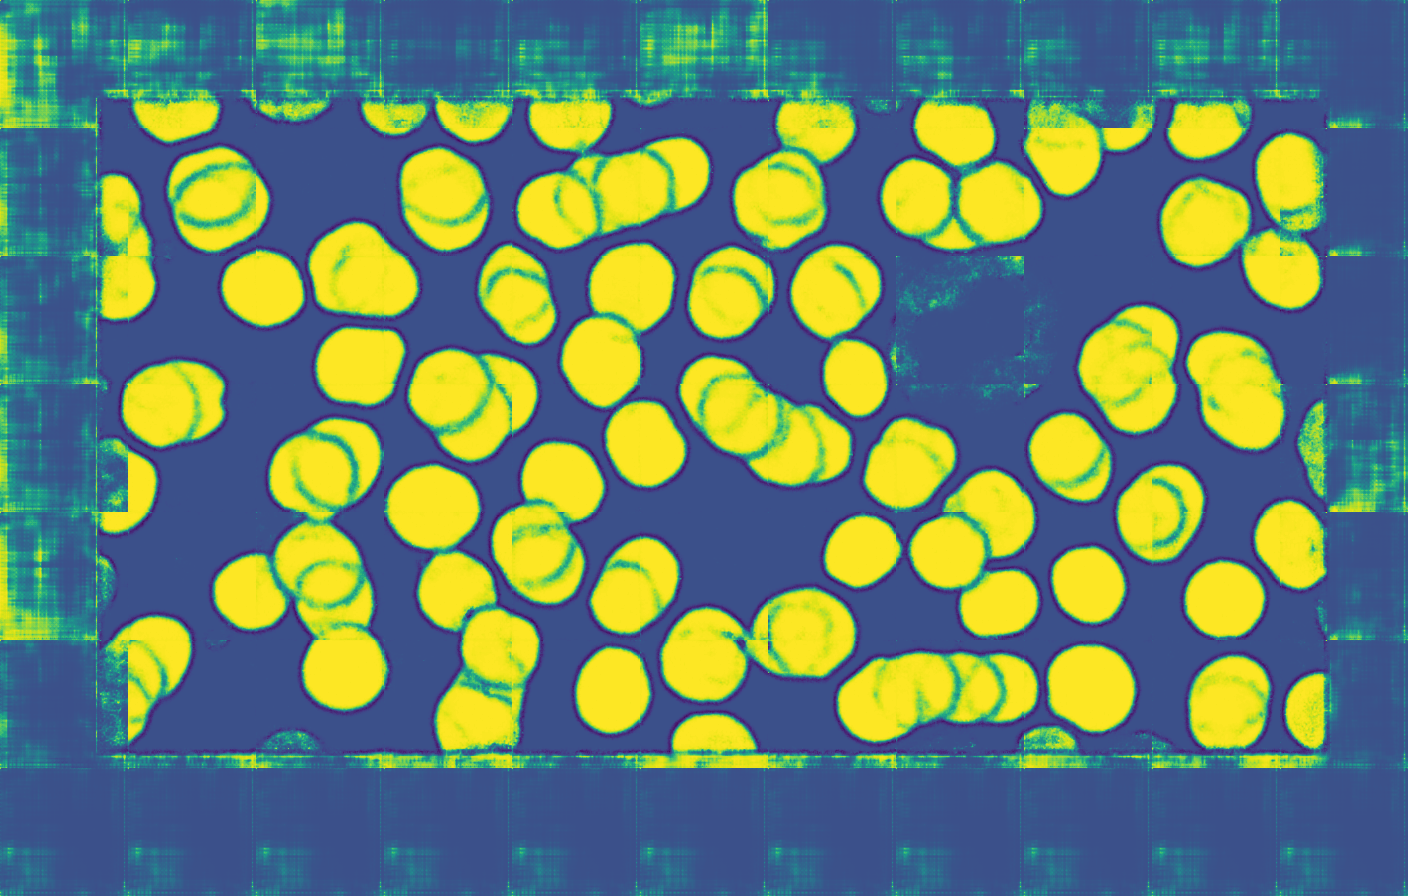
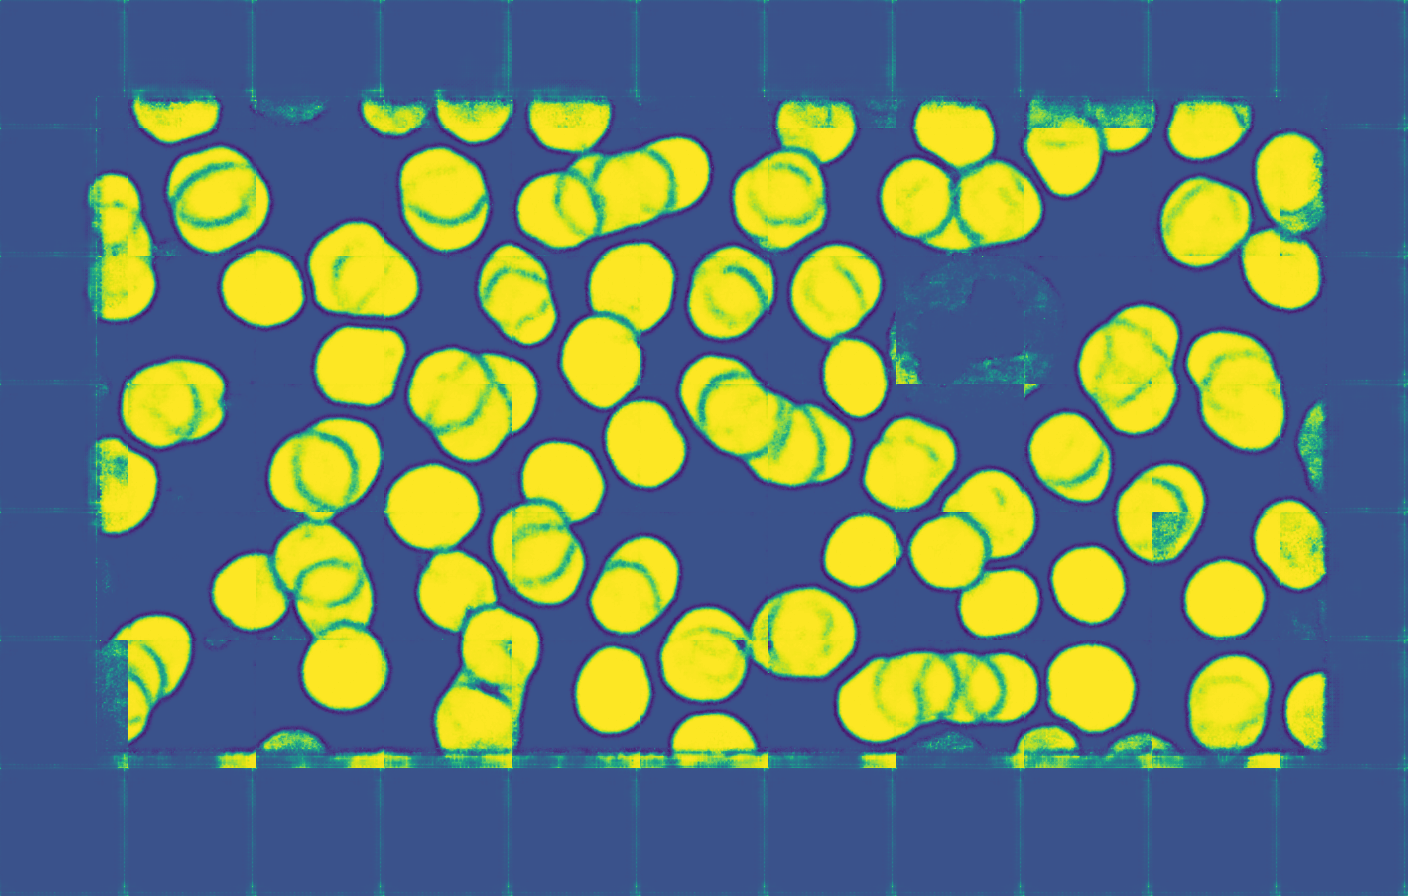
Added latest weights from paperspace!

diff --git a/src/run.py b/src/run.py
@@ -208,15 +208,16 @@ def threshold(img='edge.png'):
 
 
 # count how many cells from the predicted edges
-def count_circles(img='edge.png'):
+def hough_transform(img='edge.png'):
     if not os.path.exists(f'output/{img}'):
         print('Image does not exist!')
         return
 
-    img = cv2.imread(f'output/{img}')
-
-    # convert to grayscale and apply Circle Hough Transform (CHT)
-    img = cv2.cvtColor(img, cv2.COLOR_BGR2GRAY)
+    # getting the input image in grayscale mode
+    image = cv2.imread(f'output/{img}')
+    # convert to grayscale
+    img = cv2.cvtColor(image, cv2.COLOR_BGR2GRAY)
+    # apply hough circles
     circles = cv2.HoughCircles(img, cv2.HOUGH_GRADIENT, 1, minDist=33, maxRadius=55, minRadius=28, param1=30, param2=20)
     output = img.copy()
 
@@ -231,18 +232,56 @@ def count_circles(img='edge.png'):
             cv2.circle(output, (x, y), r, (0, 255, 0), 4)
             cv2.rectangle(output, (x - 5, y - 5), (x + 5, y + 5), (0, 128, 255), -1)
         # save the output image
-        plt.imsave('output/count_circles.png', np.hstack([img, output]))
+        plt.imsave('output/hough_transform.png', np.hstack([img, output]))
 
+    # show the hough_transform results
+    print('Hough transform:')
     print(f'Real count: {len(data.make_polygon_lists(["data/test/Im037_0.json"])[0])}')
     print(f'Predicted count: {len(circles)}')
 
 
+# count how many cells from the predicted edges
+def component_labeling(img='edge.png'):
+    if not os.path.exists(f'output/{img}'):
+        print('Image does not exist!')
+        return
+
+    # getting the input image
+    image = cv2.imread(f'output/{img}')
+    # convert to grayscale
+    img = cv2.cvtColor(image, cv2.COLOR_BGR2GRAY)
+    # converting those pixels with values 1-127 to 0 and others to 1
+    img = cv2.threshold(img, 127, 255, cv2.THRESH_BINARY)[1]
+    # applying cv2.connectedComponents() 
+    num_labels, labels = cv2.connectedComponents(img)
+    
+    # map component labels to hue val, 0-179 is the hue range in OpenCV
+    label_hue = np.uint8(179*labels/np.max(labels))
+    blank_ch = 255*np.ones_like(label_hue)
+    output = cv2.merge([label_hue, blank_ch, blank_ch])
+
+    # converting cvt to BGR
+    output = cv2.cvtColor(output, cv2.COLOR_HSV2BGR)
+
+    # set bg label to black
+    output[label_hue==0] = 0
+    
+    # saving image after Component Labeling
+    plt.imsave('output/component_labeling.png', np.hstack([image, output]))
+
+    # show number of labels detected
+    print('Connected component labeling:')
+    print(f'Real count: {len(data.make_polygon_lists(["data/test/Im037_0.json"])[0])}')
+    print(f'Predicted count: {num_labels}')
+
+
 # main program
 if __name__ == '__main__':
-    train('binary_crossentropy_128')
+    # train('binary_crossentropy_128')
     # evaluate(model_name='binary_crossentropy_128')
-    # predict(model_name='binary_crossentropy_128', img='Im037_0.jpg')
-    # threshold(img='mask.png')
-    # threshold(img='edge.png')
-    # threshold(img='edge-mask.png')
-    # count_circles(img='edge.png')
+    predict(model_name='binary_crossentropy_128', img='Im037_0.jpg')
+    threshold(img='mask.png')
+    threshold(img='edge.png')
+    threshold(img='edge-mask.png')
+    hough_transform(img='edge.png')
+    component_labeling(img='edge-mask.png')
